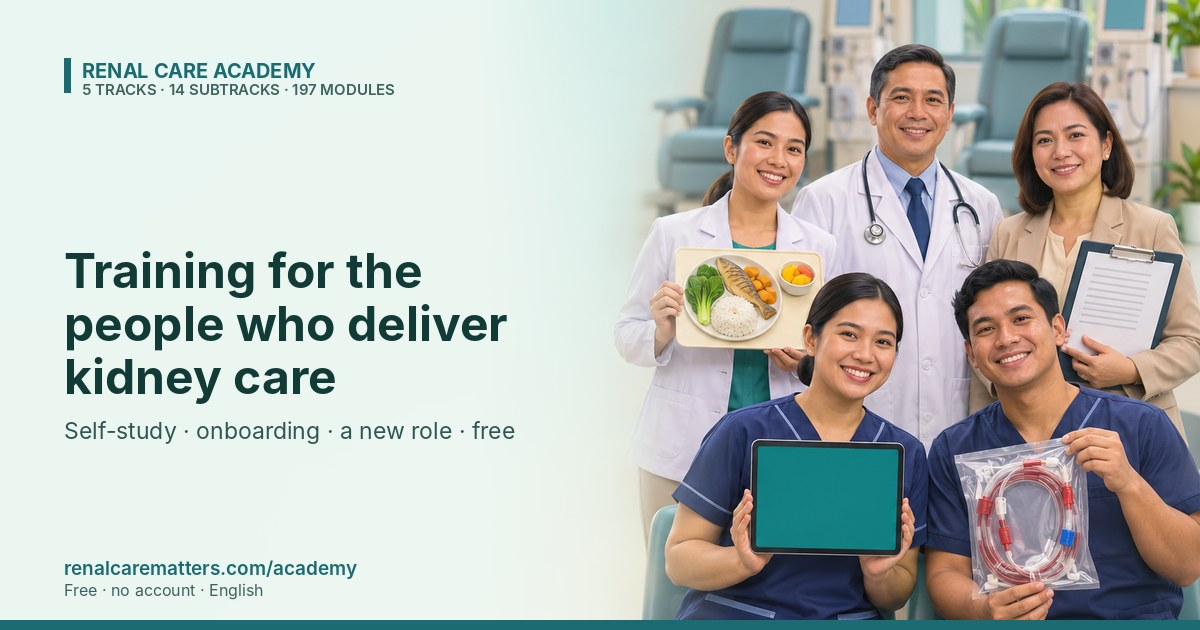
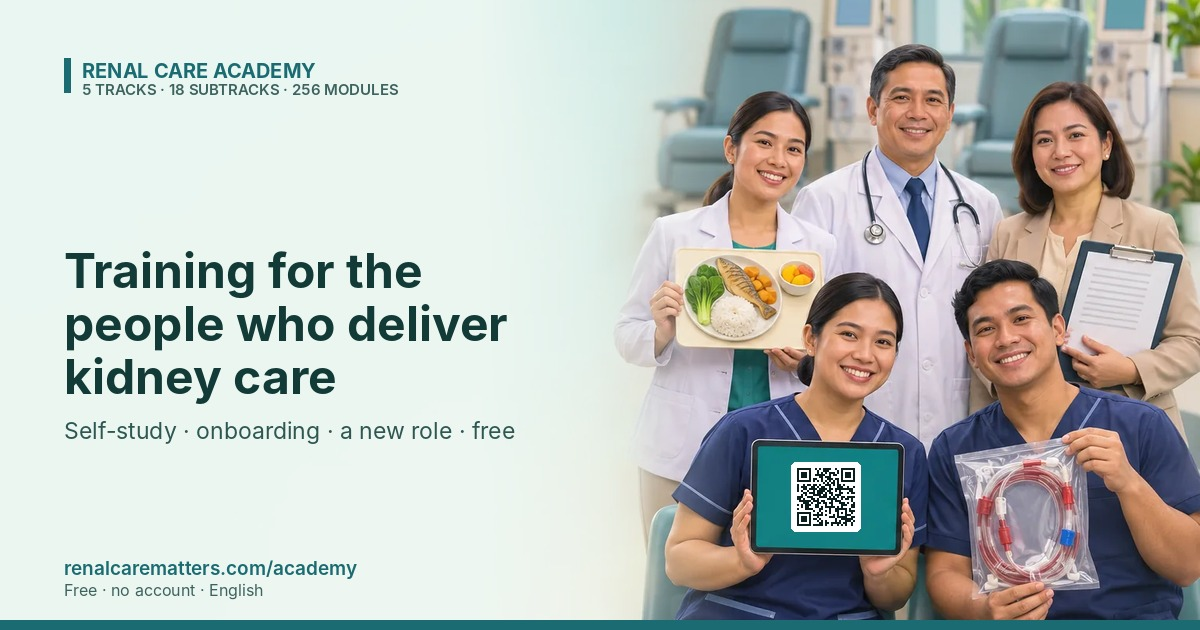
Renal Care Academy share card: current counts and a QR code on the tablet
The share image still said 5 tracks, 14 subtracks, 197 modules.
build_academy_og.py now reads the counts from the landing page's stat
chips (5 tracks, 18 subtracks, 256 modules today), so the card cannot
fall behind the page. The blank tablet the nurse holds now shows a QR
code to renalcarematters.com/academy/ (verified with a QR decoder), for
when the card is projected, shown on a TV or printed.

Claude-Session: https://claude.ai/code/session_01TPGn4JpMYzdPbo9LHV37kd

Changed region(s): [[0.6475, 0.7238, 0.74, 0.8444], [0.1542, 0.1206, 0.3392, 0.1508]]

diff --git a/build_academy_og.py b/build_academy_og.py
@@ -33,7 +33,7 @@ GROUP = {  # accent colors from the locked site palette
 # slug: (page, group, title, tag line under group, stats line)
 TRACKS = {
     "academy-index": ("academy/index.html", "academy", "Training for the people who deliver kidney care",
-                      "5 TRACKS · 15 SUBTRACKS · 215 MODULES", "Self-study · onboarding · a new role · free"),
+                      None, "Self-study · onboarding · a new role · free"),   # tag line: live counts, see landing_stats()
     "nephrology-nursing": ("academy/nephrology-nursing.html", "nursing", "Hemodialysis Nurse",
                            "BY SPECIALIZATION", "16 core + 1 advanced module · two paths"),
     "transplant-nurse": ("academy/transplant-nurse.html", "nursing", "Kidney Transplant Nurse",
@@ -113,8 +113,42 @@ def placeholder():
     d.text((855, 315), "GPT art zone", font=font("semi", 30), fill=hexrgb("#6c8f89"), anchor="mm")
     return im
 
+# Cards whose art holds a blank screen get a QR code on it (Dr. Rivero, Nov 25 2026): the screen box in the final
+# 1200 x 630 card (measured on the fitted art) and the URL it opens. Only for that art; new art needs a new box.
+QR_SCREENS = {"academy-index": ((757, 446, 896, 548), SITE + "academy/")}
+
+def draw_qr(im, box, url):
+    import qrcode
+    q = qrcode.QRCode(error_correction=qrcode.constants.ERROR_CORRECT_M, border=2, box_size=1)
+    q.add_data(url); q.make(fit=True)
+    m = q.get_matrix()                      # includes the 2-module quiet zone
+    x0, y0, x1, y1 = box
+    side = min(x1 - x0, y1 - y0) - 4
+    px = max(2, side // len(m))             # whole pixels per module: crisp edges survive JPEG
+    size = px * len(m)
+    cx, cy = (x0 + x1) // 2, (y0 + y1) // 2
+    left, top = cx - size // 2, cy - size // 2
+    d = ImageDraw.Draw(im)
+    d.rounded_rectangle((left - 2, top - 2, left + size + 1, top + size + 1), 5, fill=(255, 255, 255))
+    for r, row in enumerate(m):
+        for c, on in enumerate(row):
+            if on:
+                d.rectangle((left + c * px, top + r * px, left + (c + 1) * px - 1, top + (r + 1) * px - 1), fill=(10, 30, 30))
+
+def landing_stats(page="academy/index.html"):
+    """Track / subtrack / module counts read from the landing page's stat chips (written by the generator from the
+    course data), so the share card never drifts from the page: "5 TRACKS · 18 SUBTRACKS · 256 MODULES"."""
+    s = open(page, encoding="utf-8").read()
+    got = {w: n for n, w in re.findall(r'<span class="acad-stat"><b>([\d,]+)</b>\s*(tracks|subtracks|modules)</span>', s)}
+    missing = [w for w in ("tracks", "subtracks", "modules") if w not in got]
+    if missing:
+        sys.exit(f"landing stat chips not found for: {', '.join(missing)} ({page})")
+    return " · ".join(f"{got[w]} {w.upper()}" for w in ("tracks", "subtracks", "modules"))
+
 def compose(slug, art_path=None):
     page, grp, title, tag, stats = TRACKS[slug]
+    if tag is None:
+        tag = landing_stats(page)
     accent, gname = GROUP[grp]
     base = fit_art(art_path) if art_path else placeholder()
     # legibility veil: solid mint on the left, fading out by 62% width
@@ -149,12 +183,14 @@ def compose(slug, art_path=None):
     d.text((X, H - 74), "renalcarematters.com/academy", font=font("semi", 19), fill=hexrgb("#1A6B72"))
     d.text((X, H - 50), "Free · no account · English", font=font("reg", 16), fill=hexrgb("#3d635e"))
     d.rectangle((0, H - 10, W, H), fill=ac)
+    if slug in QR_SCREENS and art_path:
+        draw_qr(im, *QR_SCREENS[slug])
     return im
 
 def save(im, slug):
     os.makedirs(OUT, exist_ok=True)
     dst = f"{OUT}/{slug}.jpg"
-    for q in (88, 84, 80, 76, 72, 68):
+    for q in (92, 88, 84, 80, 76, 72, 68):
         buf = io.BytesIO(); im.save(buf, "JPEG", quality=q, optimize=True, progressive=True)
         if buf.tell() <= LIMIT: break
     open(dst, "wb").write(buf.getvalue())

diff --git a/CLAUDE.md b/CLAUDE.md
@@ -991,6 +991,10 @@ from the course data; a new track needs an icon in `TRACK_ICONS` and a short nam
 after every publish) puts `<style id="academy-type">` last in each academy page's head: CSS zoom 1.125 on main, the
 pre-main callouts, glossary, references and related guides (1.09 on phones; hero subtitle/meta 1.12/1.08), page title h1 46 px (31 px on phones), not on the
 header, nav strip, floating buttons or rail. Academy CSS is px-based, so zoom is the one-rule scale; adjust it there.
+**Share card counts (Nov 25 2026):** the landing share card's stats line (images/og/academy/academy-index.jpg) is read from
+the landing page's stat chips by `build_academy_og.py` (`landing_stats()`); after adding a track or modules, rebuild it:
+`python3 build_academy_og.py --art images/academy/og-art --only academy-index`. The blank tablet in that art carries a QR code to
+/academy/ (`QR_SCREENS` in the script: screen box measured on this art; new art needs a new box).
 **Related Guides thumbnails (Nov 25 2026):** every card in an academy page's Related Guides block shows a thumbnail
 (`images/<linked-stem>-rg-thumb.webp`). After adding a course or module, run `python3 generate_rg_thumbs.py` (covers
 academy/*.html: own vignette hero, else og:image, else the course home's image; per-page fixes in `SOURCE_OVERRIDES`)
